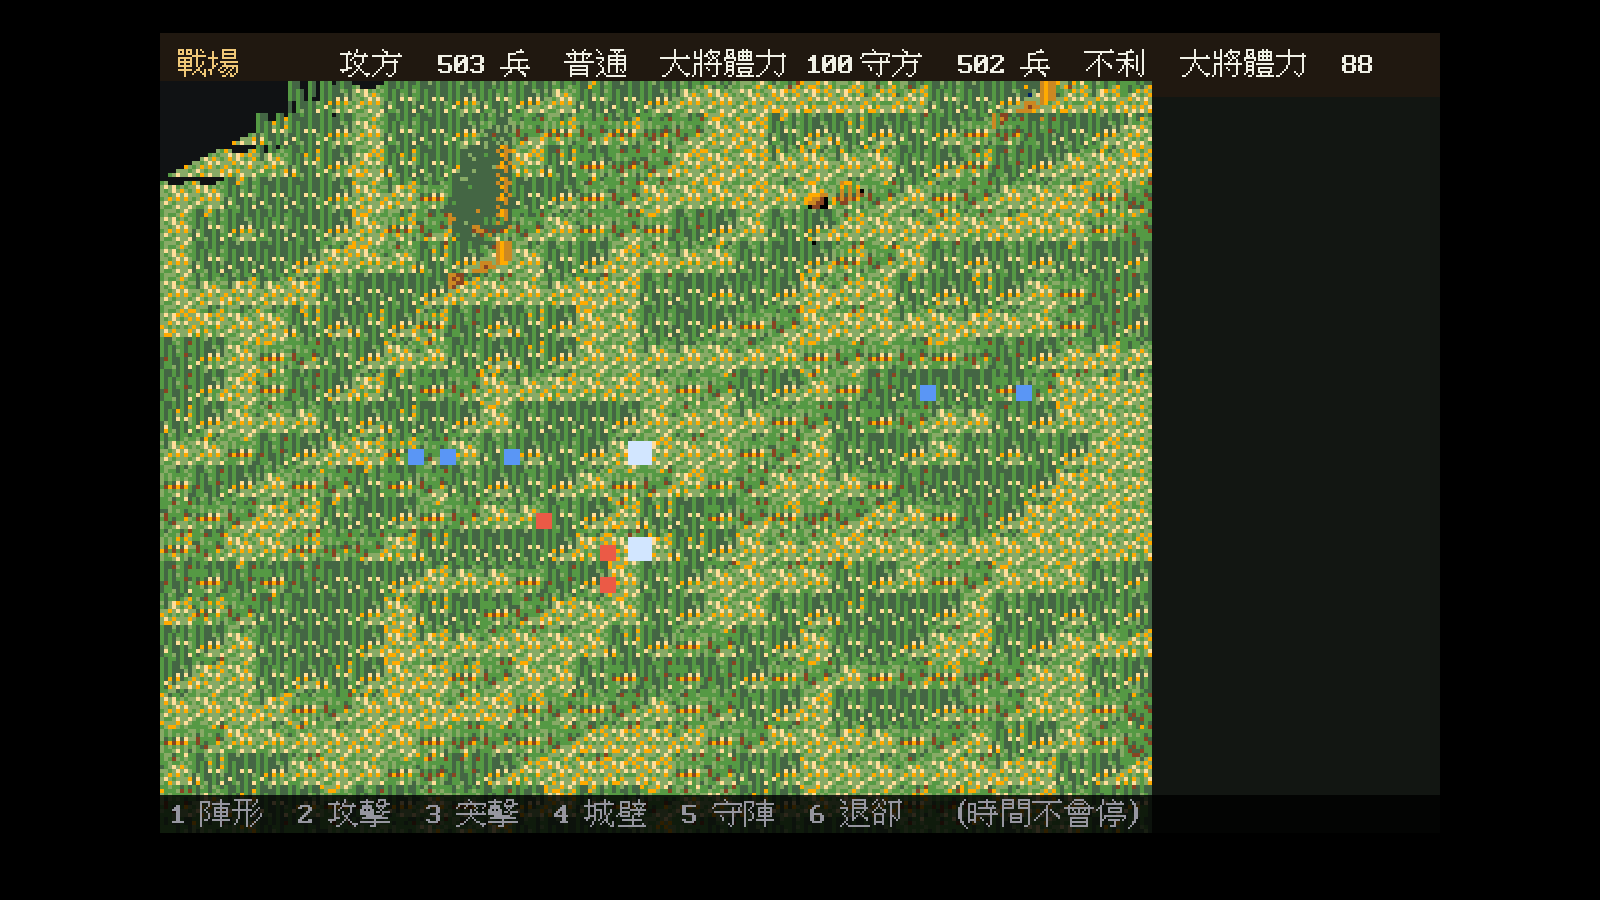
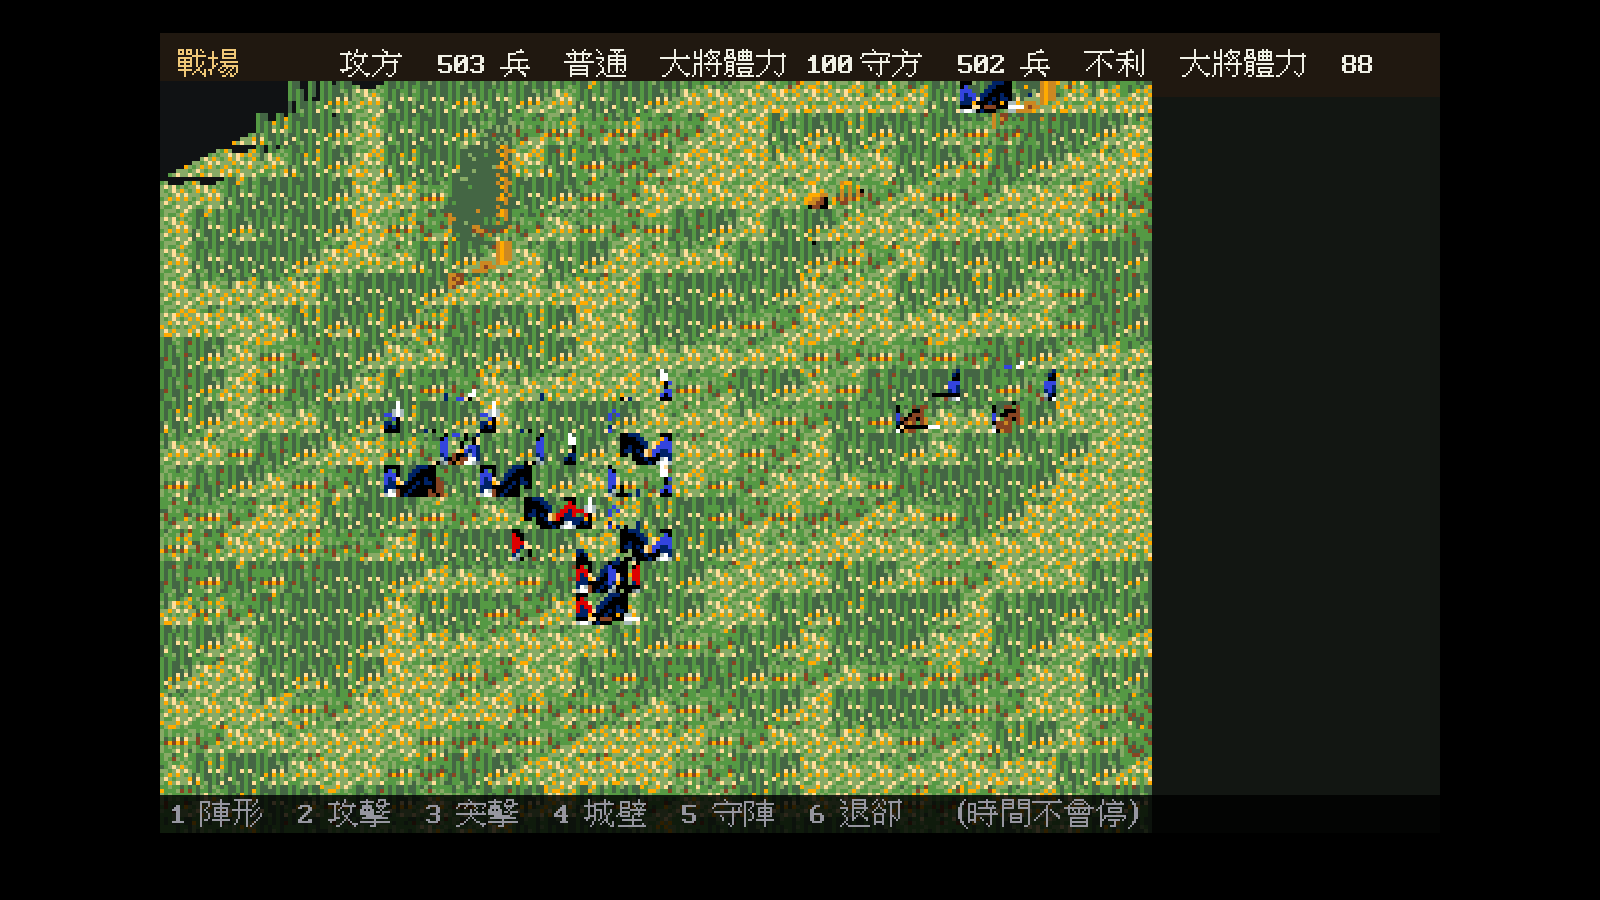
BATTLE.SCH 也是同一個格式：兵改畫原版人物圖形
上一輪解出 `BATTLE.MDL` 的子圖塊格式（五個 64 B 位元平面：遮罩 ＋ 4bpp），
拿同一條不變量去問 `BATTLE.SCH`——**100.00%，零例外**。
同一條檢查換一個檔案照樣成立，比在單一檔案上湊出來的解釋有力得多。

115,200 B ＝ 360 個 320 B 單位，16 × 32。**360 ＝ 兩側 × 180**，
兩條互相獨立的證據：整份檔案只有兩個單位全空（170 與 350，正好差 180），
而且前半紅色系、後半藍色系。

戰場畫面接上去了，兵不再是色點。

一筆進「已被推翻的斷言」，是這輪最該記的：

  我先看到「320 B 的不變量成立」就宣告單元是 320 B。錯了——
  **不變量成立只證明平面結構對，不證明單元大小對。**
  自相關講得很清楚：stride 320／960 在基準上（64.8%／64.2%），
  640／1280 明顯高（79.1%／73.5%），奇數倍不相關、偶數倍相關。
  兩個檢查回答的是不同的問題，不要拿一個代替另一個。

還沒解的：180 張裡誰是誰。只知道兩兩一組（偶數間隔相似、奇數不相似），
是動畫幀還是圖形＋陰影沒有證據。兵種與方向的對應目前是一張**暫定表**
（`spriteSlot`），程式碼與文件都標了「不是原版行為」。

順帶解出畫面是 640 × 400 EGA 平面模式（`sub_1F888` 一列 80 B，
連寫四個平面，set/reset 遮罩 0x0E/0x0D/0x0B/0x07）。
那支 blitter 沒有遮罩平面，所以 SCH 的第五平面是另一條繪製路徑在用的。

diff --git a/cmd/wlgame/battleview.go b/cmd/wlgame/battleview.go
@@ -57,6 +57,10 @@ type battleView struct {
 	// buf 是原生解析度的離屏畫布，畫完再整張放大。
 	buf *ebiten.Image
 
+	// sprites 是 `BATTLE.SCH` 的人物圖形，載不到就是 nil（兵畫成色點）。
+	sprites  *battle.Sprites
+	spCache  map[int]*ebiten.Image
+
 	camCol, camRow int
 }
 
@@ -72,8 +76,9 @@ func (g *game) newBattleView(field int) *battleView {
 	}
 	return &battleView{
 		lib: g.battleLib, set: g.battleLib.TileSet(field),
-		subs: g.battleLib.SubTiles(field),
+		subs:  g.battleLib.SubTiles(field),
 		cache: map[int]*ebiten.Image{}, pal: bank,
+		sprites: g.battleSprites, spCache: map[int]*ebiten.Image{},
 	}
 }
 
@@ -109,6 +114,53 @@ const (
 	minRow = -(tactical.Width - 1) / 2
 	maxRow = (tactical.Height-1)/2 + isoOriginY
 )
+
+// spriteSlot 決定一個兵要用第幾張人物圖形。
+//
+// ⚠ **這是 remake 的暫定對應，不是原版行為。** 已知的只有
+// 「一側 180 張、兩兩一組」（docs/formats/07 §10），180 張裡誰是誰
+// 還沒解——所以這裡只保證「不同兵種畫得不一樣、面向會換圖」。
+// 解出來之後要換掉整個函式。
+func spriteSlot(kind tactical.Kind, facing int) int {
+	base := 0
+	switch kind {
+	case tactical.Cavalry:
+		base = 60
+	case tactical.Archer:
+		base = 100
+	case tactical.Infantry:
+		base = 20
+	}
+	// 兩兩一組，所以方向的間隔取偶數。
+	return (base + facing*2) % battle.SpritesPerSide
+}
+
+// soldierImage 取一個兵的圖。
+func (v *battleView) soldierImage(side int, kind tactical.Kind, facing int) *ebiten.Image {
+	if v.sprites == nil {
+		return nil
+	}
+	n := side*battle.SpritesPerSide + spriteSlot(kind, facing)
+	if img, ok := v.spCache[n]; ok {
+		return img
+	}
+	s := v.sprites.At(n)
+	if s == nil {
+		v.spCache[n] = nil
+		return nil
+	}
+	rgba := image.NewRGBA(image.Rect(0, 0, battle.SubTileW, battle.SubTileH))
+	for y := 0; y < battle.SubTileH; y++ {
+		for x := 0; x < battle.SubTileW; x++ {
+			if c := s.At(x, y); c != battle.Transparent {
+				rgba.SetRGBA(x, y, v.pal[c&15])
+			}
+		}
+	}
+	img := ebiten.NewImageFromImage(rgba)
+	v.spCache[n] = img
+	return img
+}
 
 // centreOn 把相機對到某一格上，並夾在戰場的範圍內。
 func (v *battleView) centreOn(x, y, z int) {
@@ -219,6 +271,14 @@ func (g *game) drawBattleIso(screen *ebiten.Image, b *tactical.Battle, me *tacti
 			}
 			px, py, ok := v.ScreenPos(0, 0, s.X, s.Y, s.Z)
 			if !ok {
+				continue
+			}
+			if img := v.soldierImage(i, s.Kind, s.Facing); img != nil {
+				op := &ebiten.DrawImageOptions{}
+				// 腳底對準格子：圖高 32，站的那一格在最下面那 8 px。
+				op.GeoM.Translate(float64(px-battle.SubTileW/2),
+					float64(py-battle.SubTileH+isoRowPx))
+				v.buf.DrawImage(img, op)
 				continue
 			}
 			c := base

diff --git a/internal/assets/battle/sprites.go b/internal/assets/battle/sprites.go
@@ -1,0 +1,63 @@
+package battle
+
+import "fmt"
+
+// `BATTLE.SCH` 的人物圖形。
+//
+// 規格與驗證見 docs/formats/07 §10。
+//
+// 115,200 B ＝ **360 個 320 B 的單位**，格式與 `BATTLE.MDL` 的子圖塊
+// **完全一樣**：五個 64 B 的位元平面（遮罩 ＋ 4bpp 的四張），16 × 32。
+// 同一條不變量（遮罩為 0 處色平面全 0）在這裡也是 **100.00%**。
+//
+// ⭐ **360 ＝ 兩側 × 180**。兩條證據：
+//
+//   - 整份檔案裡**只有兩個單位是全空的：170 與 350**，正好相差 180
+//   - 前半是紅色系、後半是藍色系（攻方／守方）
+//
+// ⚠ **180 個裡面誰是誰還沒解。** 已知的只有「相隔偶數個的單位彼此相似、
+// 奇數個的不相似」，也就是**兩兩一組**；那一組是「兩張動畫幀」還是
+// 「圖形 ＋ 陰影」還沒有證據。所以下面只提供「第 n 個」的取用，
+// 兵種與方向怎麼對應是**呼叫端的暫定選擇**，不是原版行為。
+const (
+	SpriteUnit     = SubTileSize // 320，與子圖塊同格式
+	NumSprites     = 360
+	SpritesPerSide = 180
+	// EmptySprite 是兩側都空著的那一格（170 與 350）。
+	EmptySprite = 170
+)
+
+// Sprites 是解好的人物圖形。
+type Sprites struct {
+	raw   []byte
+	cache [NumSprites]*SubTile
+}
+
+// ParseSprites 解 `BATTLE.SCH`。
+func ParseSprites(b []byte) (*Sprites, error) {
+	if n := NumSprites * SpriteUnit; len(b) != n {
+		return nil, fmt.Errorf("battle: BATTLE.SCH 是 %d B，預期 %d", len(b), n)
+	}
+	return &Sprites{raw: b}, nil
+}
+
+// At 取第 n 個單位（0–359）。超出範圍回 nil。
+func (s *Sprites) At(n int) *SubTile {
+	if s == nil || n < 0 || n >= NumSprites {
+		return nil
+	}
+	if t := s.cache[n]; t != nil {
+		return t
+	}
+	t := decodePlanar(s.raw[n*SpriteUnit : (n+1)*SpriteUnit])
+	s.cache[n] = t
+	return t
+}
+
+// Side 取第 side 側的第 n 張（n 是 0–179）。
+func (s *Sprites) Side(side, n int) *SubTile {
+	if n < 0 || n >= SpritesPerSide {
+		return nil
+	}
+	return s.At(side*SpritesPerSide + n)
+}

diff --git a/internal/assets/battle/battle_test.go b/internal/assets/battle/battle_test.go
@@ -204,3 +204,52 @@ func TestSubTileIndexRange(t *testing.T) {
 		t.Errorf("子圖塊編號最大是 %d，預期 %d", max, NumSubTiles-1)
 	}
 }
+
+// `BATTLE.SCH` 與 `BATTLE.MDL` 的子圖塊是**同一個格式**。
+//
+// 同一條不變量（遮罩為 0 處四個色平面全 0）在這裡也必須 100% 成立，
+// 而且 360 個單位裡**只有 170 與 350 是全空的**——正好相差 180，
+// 那就是「兩側各 180 張」的證據。
+func TestSpriteFormatMatchesSubTile(t *testing.T) {
+	raw := mustRead(t, "BATTLE.SCH")
+	sp, err := ParseSprites(raw)
+	if err != nil {
+		t.Fatal(err)
+	}
+	bad := 0
+	for n := 0; n < NumSprites; n++ {
+		b := raw[n*SpriteUnit : (n+1)*SpriteUnit]
+		for i := 0; i < planeBytes; i++ {
+			var any byte
+			for p := 1; p <= 4; p++ {
+				any |= b[planeBytes*p+i]
+			}
+			bad += popcount(^b[i] & any)
+		}
+	}
+	if bad != 0 {
+		t.Errorf("有 %d 個位元違反「遮罩 0 → 色平面 0」——BATTLE.SCH 不是同一個格式", bad)
+	}
+
+	var empty []int
+	for n := 0; n < NumSprites; n++ {
+		s := sp.At(n)
+		if s == nil {
+			t.Fatalf("第 %d 張解不出來", n)
+		}
+		blank := true
+		for _, v := range s.Pix {
+			if v != Transparent {
+				blank = false
+				break
+			}
+		}
+		if blank {
+			empty = append(empty, n)
+		}
+	}
+	if len(empty) != 2 || empty[0] != EmptySprite ||
+		empty[1] != EmptySprite+SpritesPerSide {
+		t.Errorf("全空的是 %v，預期正好兩個且相差 %d", empty, SpritesPerSide)
+	}
+}

diff --git a/internal/assets/battle/battle.go b/internal/assets/battle/battle.go
@@ -217,7 +217,15 @@ func (l *Library) SubTile(set, n int) *SubTile {
 		return t
 	}
 	base := MDLHeader + set*TileSetSize + subTileBase + n*SubTileSize
-	b := l.mdl[base : base+SubTileSize]
+	t := decodePlanar(l.mdl[base : base+SubTileSize])
+	l.sub[set][n] = t
+	return t
+}
+
+// decodePlanar 解一個 320 B 的單位：五個 64 B 位元平面，
+// 第一個是遮罩（1 ＝ 有畫），其餘四個是 4bpp 的色號。
+// `BATTLE.MDL` 的子圖塊與 `BATTLE.SCH` 的人物圖形用的是同一個格式。
+func decodePlanar(b []byte) *SubTile {
 	t := &SubTile{}
 	for y := 0; y < SubTileH; y++ {
 		for x := 0; x < SubTileW; x++ {
@@ -234,7 +242,6 @@ func (l *Library) SubTile(set, n int) *SubTile {
 			t.Pix[y*SubTileW+x] = int8(v)
 		}
 	}
-	l.sub[set][n] = t
 	return t
 }
 

diff --git a/cmd/wlgame/battle.go b/cmd/wlgame/battle.go
@@ -276,6 +276,15 @@ func (g *game) installTactical(dir string) {
 	}
 	lib := loadBattleLibrary(dir)
 	g.battleLib = lib
+	if raw, err := os.ReadFile(dir + "/BATTLE.SCH"); err == nil {
+		if sp, err := battle.ParseSprites(raw); err == nil {
+			g.battleSprites = sp
+		} else {
+			log.Printf("⚠ %v；兵會畫成色點", err)
+		}
+	} else {
+		log.Printf("⚠ 載不到 BATTLE.SCH（%v）；兵會畫成色點", err)
+	}
 	g.world.SetTactical(&state.TacticalSetup{
 		Forms: forms,
 		Field: func(node int, siege bool) *tactical.Field {

diff --git a/cmd/wlgame/main.go b/cmd/wlgame/main.go
@@ -99,7 +99,8 @@ type game struct {
 	// 所以開著的時候時間會停（15-realtime.md §2）。
 	battleLib *battle.Library
 	// view 是戰場的等角繪圖資源。沒有原版美術時是 nil，畫面退回高度圖。
-	view *battleView
+	view          *battleView
+	battleSprites *battle.Sprites
 
 	list    *listwin.List
 	sortMem listwin.Memory

diff --git a/docs/formats/07-battle.md b/docs/formats/07-battle.md
@@ -313,3 +313,45 @@ byte 1          運算元
 ＝ 294,912 個位元，零例外。
 
 ![子圖塊](../images/battle-subtiles.png)
+
+
+## 10. ⭐ `BATTLE.SCH`：人物圖形，與子圖塊同格式
+
+115,200 B ＝ **360 個 320 B 的單位**，格式與 §9 的子圖塊**一模一樣**：
+五個 64 B 的位元平面（遮罩 ＋ 4bpp 的四張），16 × 32。
+
+同一條不變量在這裡也成立：**遮罩是 0 的地方，四個色平面全部是 0**，
+360 × 512 個位元零例外。**同一條檢查換一個檔案照樣 100%**——
+這比在單一檔案上湊出來的解釋有力得多。
+
+### ⭐ 360 ＝ 兩側 × 180
+
+兩條互相獨立的證據：
+
+1. **整份檔案只有兩個單位是全空的：170 與 350**，正好相差 180
+2. 前 180 個是紅色系、後 180 個是藍色系（攻方／守方）
+
+### 還沒解的：180 張裡誰是誰
+
+量過同一側內「相隔 k 個單位的相似度」（基準 61.7%）：
+
+| k | 相似度 |
+|---:|---:|
+| 1／3／5／9／15／45（奇數） | 62–65%（＝ 基準） |
+| 2／4／6／10／12／18／36（偶數） | 70–79% |
+
+**只有偶數間隔是相似的**，所以 180 張是**兩兩一組**。
+那一組是「兩張動畫幀」還是「圖形 ＋ 陰影」還沒有證據，
+兵種與方向怎麼編號也還沒解。
+
+⚠ 本專案目前用的是一張**暫定對應表**（`cmd/wlgame` 的 `spriteSlot`），
+只保證「不同兵種畫得不一樣」，**不是原版行為**。
+
+![人物圖形](../images/battle-sprites.png)
+
+### 順帶：畫面是 640 × 400 的 EGA 平面模式
+
+`sub_1F888` 算目的地位址時用 `bx * 80`，一列 80 B ＝ 640 px；
+它連著寫四個平面（set/reset 遮罩 `0x0E`／`0x0D`／`0x0B`／`0x07`，
+第一次覆蓋、後三次 OR）。**這支 blitter 沒有遮罩平面**，
+所以 `BATTLE.SCH` 那個第五平面是另一條繪製路徑在用的。

diff --git a/CONTEXT.md b/CONTEXT.md
@@ -192,6 +192,8 @@ Go 版與 Python 版的輸出逐像素完全相同。
 | `BATTLE.MDL` 的子圖塊是 **256 B**（16×32 或 32×16 planar） | **320 B ＝ 五個 64 B 平面**（遮罩 ＋ 4bpp 的四張），16 × 32 | 256 是「61,440 ÷ 240」湊出來的，而 240 又是從別處猜的。**沒有量過位元組流就先選了除數**。改成量自相關（扣掉 18.5% 基準）之後，320 直接跳出來（45%），而 80／160 在基準以下——多出來的那個平面是遮罩 |
 | 「相鄰同色率」可以用來挑對的解碼方式 | **那個指標可以被 gaming**：把整張圖解成單一顏色會拿到接近 100% | 我照它挑出「遮罩在前」92.9%，畫出來全黑——**因為它獎勵的是「一致」，不是「正確」**。改用「遮罩為 0 處色平面必須全 0」這種**不可能靠巧合成立的不變量**才定案（100.0%，294,912 個位元零例外）。指標要能被錯誤答案輸掉才算指標 |
 
+| `BATTLE.SCH` 的單位是 **320 B**（因為 320 B 的不變量成立） | 重複單元是 **640 B**（兩個 320 B 一組） | 不變量成立**只證明平面結構對，不證明單元大小對**。自相關講得很清楚：stride 320 與 960 在基準上（64.8%／64.2%），640 與 1280 明顯高（79.1%／73.5%）——**奇數倍不相關、偶數倍相關**。兩個檢查各自回答不同的問題,不要拿一個去代替另一個 |
+
 > 每推翻一條就記一列，寫清楚誰推翻誰、憑什麼。**空著不是好事，是還沒開始驗。**
 
 | 日期 | 原斷言 | 推翻依據 |

diff --git a/README.md b/README.md
@@ -161,7 +161,12 @@
 每張 16 × 32（`docs/formats/07` §9）。視角也照原版：`sub_1DAAA` 是
 **等角投影**，欄 ＝ X＋Y、列 ＝ (Y−X)÷2＋32−Z，看得到 31 欄 × 24 列。
 
-⚠ **兵還是色點**：人物圖形在 `BATTLE.SCH`，那個還沒解。
+兵畫的也是原版的人物圖形：`BATTLE.SCH` 用的是**同一個格式**——
+360 個 320 B 的單位，兩側各 180 張（`docs/formats/07` §10）。
+同一條「遮罩為 0 處色平面全 0」的檢查換到這個檔案照樣 100%。
+
+⚠ **180 張裡誰是誰還沒解**：只知道「兩兩一組」（偶數間隔的彼此相似、
+奇數的不相似）。兵種與方向的對應目前是一張暫定表，不是原版行為。
 
 野戰的戰場是**從大地圖上即時算出來的**，不是隨機挑一張
 （`internal/rules/battlefield`）：取軍團所在格與下方四格的地形類型，
